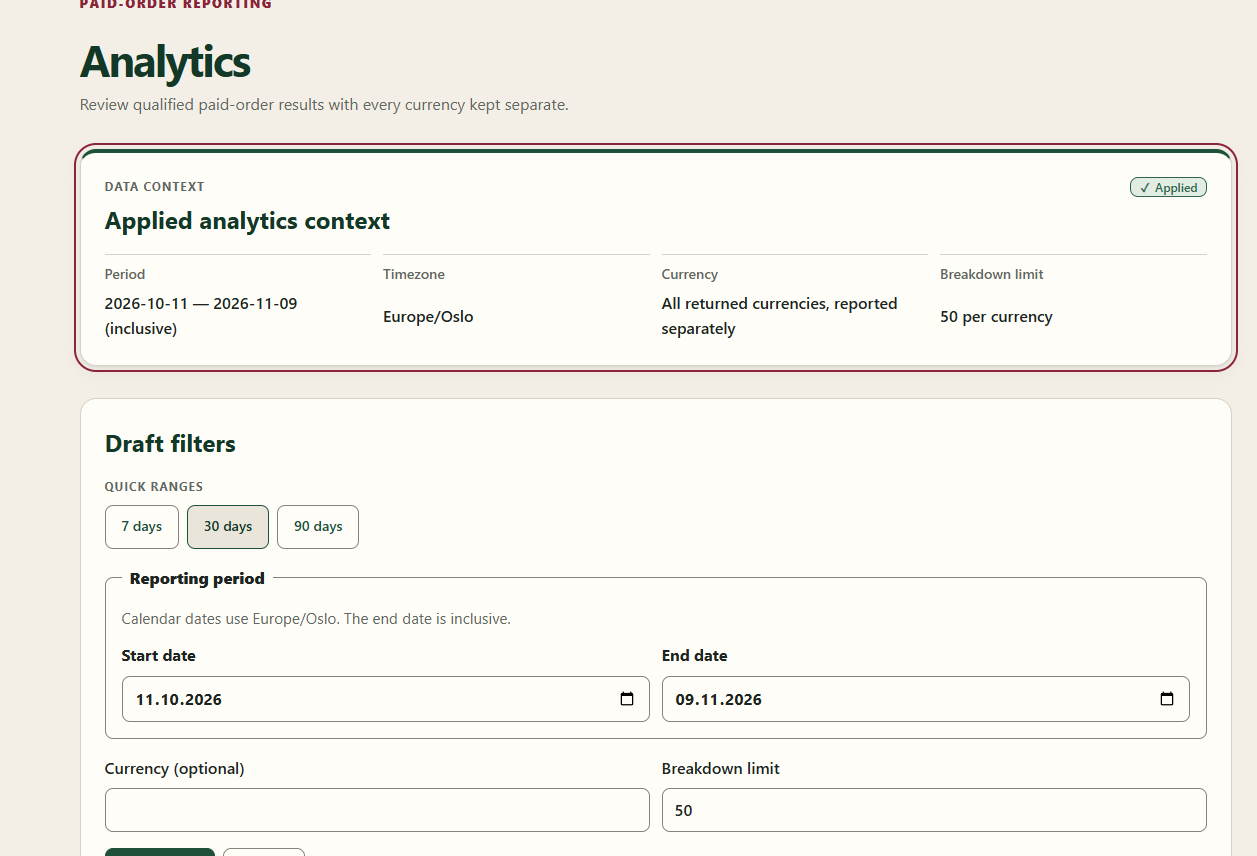
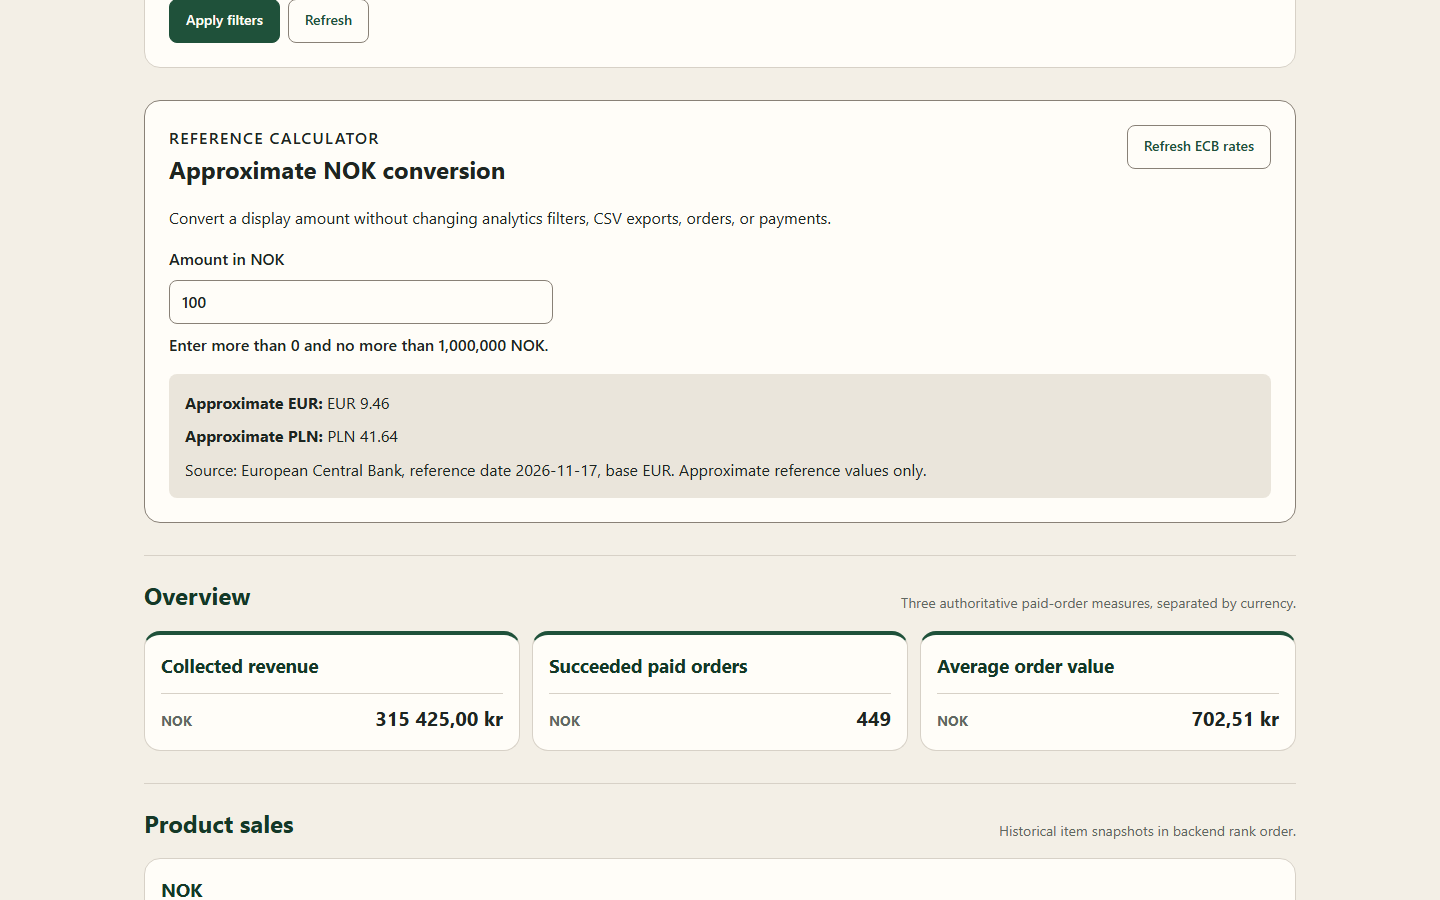
docs: refresh Nordic Hearth case study

diff --git a/src/pages/ProjectNordicHearth.jsx b/src/pages/ProjectNordicHearth.jsx
@@ -119,12 +119,23 @@ export default function ProjectNordicHearth({ onGoProjects }) {
             </section>
 
             <div className="nova-two-column">
-              {[copy.contribution, copy.limitations].map((section) => (
-                <section className="nova-section" key={section.title}>
-                  <h2>{section.title}</h2>
-                  <p>{section.body}</p>
-                </section>
-              ))}
+              <section className="nova-section">
+                <h2>{copy.contribution.title}</h2>
+                <p>{copy.contribution.body}</p>
+                <p>
+                  <a
+                    href={NORDIC_HEARTH_LINKS.e2eRunUrl}
+                    target="_blank"
+                    rel="noreferrer"
+                  >
+                    {copy.contribution.evidence} ↗
+                  </a>
+                </p>
+              </section>
+              <section className="nova-section">
+                <h2>{copy.limitations.title}</h2>
+                <p>{copy.limitations.body}</p>
+              </section>
             </div>
           </div>
 

diff --git a/src/content/nordicHearth.js b/src/content/nordicHearth.js
@@ -1,12 +1,15 @@
 export const NORDIC_HEARTH_LINKS = Object.freeze({
   liveUrl: "https://nordic.kamilsarbian.dev",
   repositoryUrl: "https://github.com/kamilSarbian/Restaurant_Ordering_Analytics",
+  e2eRunUrl:
+    "https://github.com/kamilSarbian/Restaurant_Ordering_Analytics/actions/runs/44132315284",
 });
 
 export const NORDIC_HEARTH_IMAGES = Object.freeze([
+  { src: "/projects/nordic-hearth/home.png", width: 1440, height: 900 },
   { src: "/projects/nordic-hearth/menu.png", width: 1212, height: 807 },
   { src: "/projects/nordic-hearth/admin.png", width: 1267, height: 701 },
   { src: "/projects/nordic-hearth/orders.png", width: 1282, height: 872 },
-  { src: "/projects/nordic-hearth/analytics.png", width: 1257, height: 856 },
+  { src: "/projects/nordic-hearth/analytics.png", width: 1440, height: 900 },
   { src: "/projects/nordic-hearth/exports.png", width: 1301, height: 742 },
 ]);
